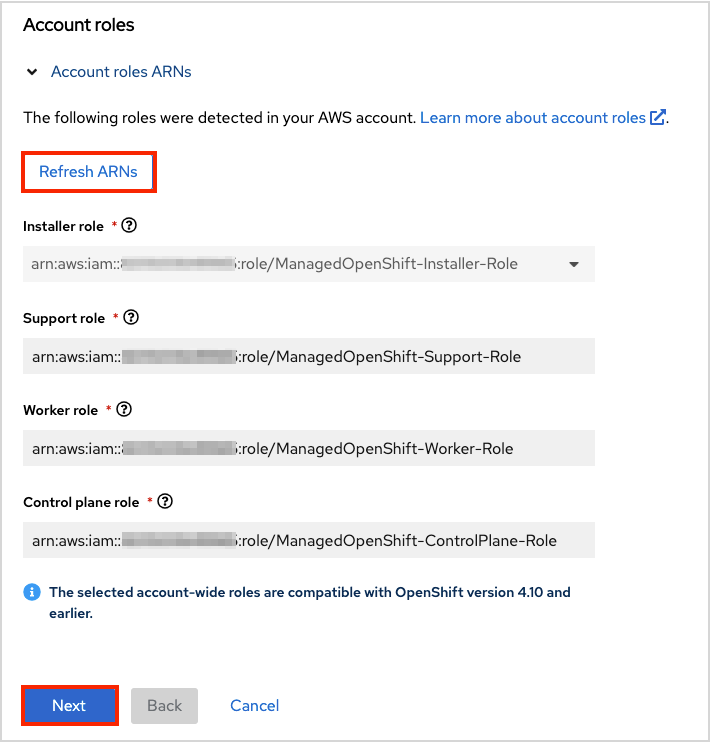
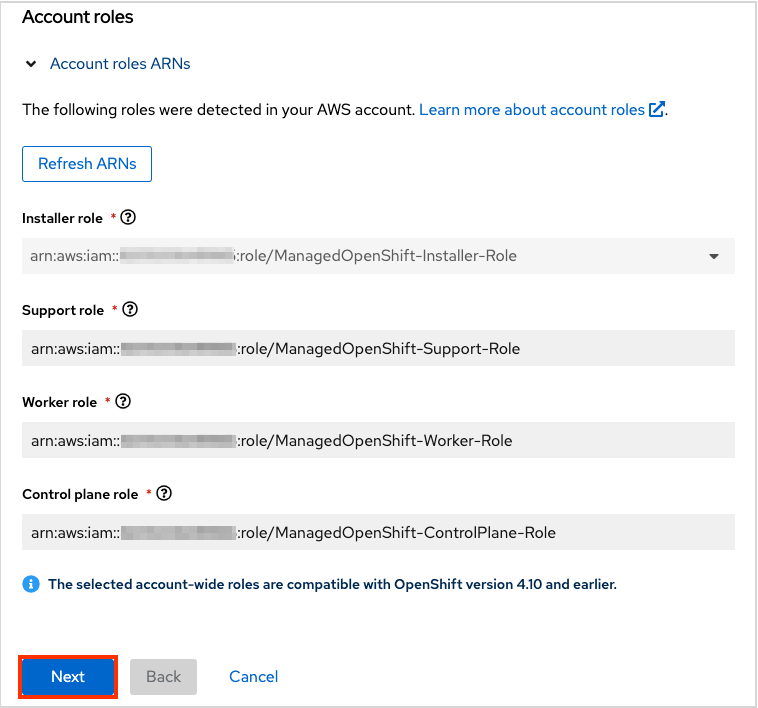
reorder steps

diff --git a/rosa-workshop/rosa/16-deploy_ui.md b/rosa-workshop/rosa/16-deploy_ui.md
@@ -4,18 +4,47 @@ This page will take you through the steps to deploy a ROSA cluster using the Ope
 ## Deployment flow
 The overall flow that we will follow boils down to these steps. Steps 1 and 2 only need to be performed the *first time* you are deploying into an AWS account.  So for each successive cluster of the same y-stream version, you would just create the cluster.
 
+1. Create the account wide roles and policies
 1. Associate your AWS account with your Red Hat account
     1. Create and link OCM role
     1. Create and link User role
-1. Create the account wide roles and policies
 1. Create the cluster
 
+
+## Create account wide roles
+
+>NOTE: If you already have account roles (possibly from an earlier deployment) then skip this step. You will see that the UI will detect your existing roles after you select an associated AWS account.
+
+If this is the <u>first time</u> you are deploying ROSA in this account and have <u>not yet created the account roles</u>, then create the account-wide roles and policies, including Operator policies.
+
+In your terminal run the following command to create the account-wide roles:
+
+```
+rosa create account-roles --mode auto --yes
+```
+
+You will see an output like the following:
+
+```
+I: Creating roles using 'arn:aws:iam::000000000000:user/rosa-user'
+I: Created role 'ManagedOpenShift-ControlPlane-Role' with ARN 'arn:aws:iam::000000000000:role/ManagedOpenShift-ControlPlane-Role'
+I: Created role 'ManagedOpenShift-Worker-Role' with ARN 'arn:aws:iam::000000000000:role/ManagedOpenShift-Worker-Role'
+I: Created role 'ManagedOpenShift-Support-Role' with ARN 'arn:aws:iam::000000000000:role/ManagedOpenShift-Support-Role'
+I: Created role 'ManagedOpenShift-Installer-Role' with ARN 'arn:aws:iam::000000000000:role/ManagedOpenShift-Installer-Role'
+I: Created policy with ARN 'arn:aws:iam::000000000000:policy/ManagedOpenShift-openshift-machine-api-aws-cloud-credentials'
+I: Created policy with ARN 'arn:aws:iam::000000000000:policy/ManagedOpenShift-openshift-cloud-credential-operator-cloud-crede'
+I: Created policy with ARN 'arn:aws:iam::000000000000:policy/ManagedOpenShift-openshift-image-registry-installer-cloud-creden'
+I: Created policy with ARN 'arn:aws:iam::000000000000:policy/ManagedOpenShift-openshift-ingress-operator-cloud-credentials'
+I: Created policy with ARN 'arn:aws:iam::000000000000:policy/ManagedOpenShift-openshift-cluster-csi-drivers-ebs-cloud-credent'
+I: To create a cluster with these roles, run the following command:
+rosa create cluster --sts
+```
 
 ## Associate your AWS account with your Red Hat account
 
 >NOTE: If you have already associated AWS accounts that you want to use, please skip this step.
 
-The first step is to tell OCM what is/are your AWS account(s) that you want to use for deploying ROSA into.
+The next step is to tell OCM what is/are your AWS account(s) that you want to use for deploying ROSA into.
 
 Open OCM by visiting [https://console.redhat.com/openshift](https://console.redhat.com/openshift) and log in to your Red Hat account.
 
@@ -35,7 +64,7 @@ A pop up window will open instructing you to download the ROSA CLI, AWS CLI, and
 
 ![associate2](images/16-associate2.png)
 
-On the next page you will see the commands for creating the OCM role for the level of permissions that this role will have. You can create:
+On the next page you will see the commands to create the OCM role for the level of permissions that this role will have. You can create:
 
 - **Basic OCM role**: Allows OCM to have read only access to the account in order to check if the roles and policies that are required by ROSA are present before creating a cluster. You will need to manually create the required roles, policies and OIDC provider using the CLI.
 - **Admin OCM role**: Grants OCM additional permissions in order to create the required roles, policies, and OIDC provider for ROSA. Using this makes the deployment of a ROSA cluster quicker since OCM will be able to create the required resources for you avoiding the need for you to manually create them.
@@ -44,9 +73,9 @@ To read more about these roles, please click the tooltip or visit the [OpenShift
 
 For the purposes of this workshop, we'll use the Admin OCM role since we want the simplest and quickest approach.
 
-### Create and associate OCM role
+### Create and associate an OCM role
 
-You can copy the command for the Admin OCM Role from that window which will launch interactive mode. Or for simplicity switch to your terminal and execute:
+You can copy the command for the Admin OCM role from that window which will launch interactive mode. Or for simplicity switch to your terminal and execute:
 
 ```
 rosa create ocm-role --mode auto --admin --yes
@@ -98,43 +127,7 @@ Select the account.
 
 ![associate3](images/16-associate3.png)
 
-
-## Create account wide roles
-
->NOTE: If you already have account roles (possibly from an earlier deployment) then skip this step. You will see that the UI will detect your existing roles if you already have them.
-
-If this is the <u>first time</u> you are deploying ROSA in this account and have <u>not yet created the account roles</u>, then create the account-wide roles and policies, including Operator policies.
-
-If you see the following then you need to create the account-wide roles.
-
-![roles-missing](images/16-rolesmissing.png)
-
-Run the following command to create the account-wide roles:
-
-```
-rosa create account-roles --mode auto --yes
-```
-
-You will see an output like the following:
-
-```
-I: Creating roles using 'arn:aws:iam::000000000000:user/rosa-user'
-I: Created role 'ManagedOpenShift-ControlPlane-Role' with ARN 'arn:aws:iam::000000000000:role/ManagedOpenShift-ControlPlane-Role'
-I: Created role 'ManagedOpenShift-Worker-Role' with ARN 'arn:aws:iam::000000000000:role/ManagedOpenShift-Worker-Role'
-I: Created role 'ManagedOpenShift-Support-Role' with ARN 'arn:aws:iam::000000000000:role/ManagedOpenShift-Support-Role'
-I: Created role 'ManagedOpenShift-Installer-Role' with ARN 'arn:aws:iam::000000000000:role/ManagedOpenShift-Installer-Role'
-I: Created policy with ARN 'arn:aws:iam::000000000000:policy/ManagedOpenShift-openshift-machine-api-aws-cloud-credentials'
-I: Created policy with ARN 'arn:aws:iam::000000000000:policy/ManagedOpenShift-openshift-cloud-credential-operator-cloud-crede'
-I: Created policy with ARN 'arn:aws:iam::000000000000:policy/ManagedOpenShift-openshift-image-registry-installer-cloud-creden'
-I: Created policy with ARN 'arn:aws:iam::000000000000:policy/ManagedOpenShift-openshift-ingress-operator-cloud-credentials'
-I: Created policy with ARN 'arn:aws:iam::000000000000:policy/ManagedOpenShift-openshift-cluster-csi-drivers-ebs-cloud-credent'
-I: To create a cluster with these roles, run the following command:
-rosa create cluster --sts
-```
-
-Click "Refresh ARNs".
-
-You will then see the role ARNs populated in the window.
+You will then see the account role ARNs (created earlier) populated below.
 
 ![roles](images/16-accountroles.png)
 
